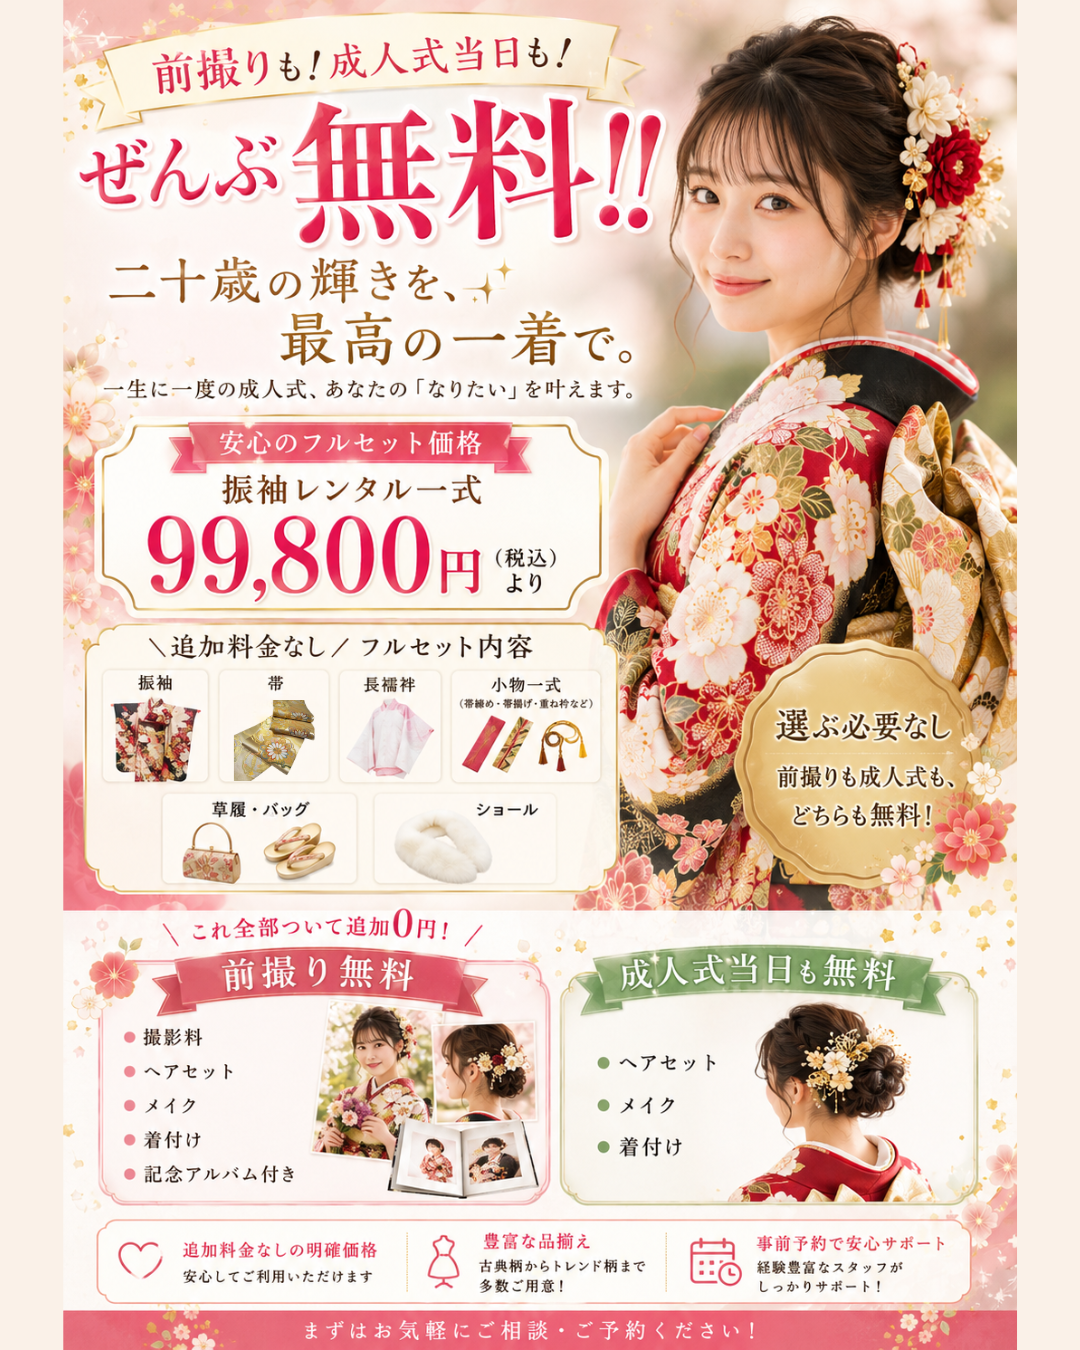
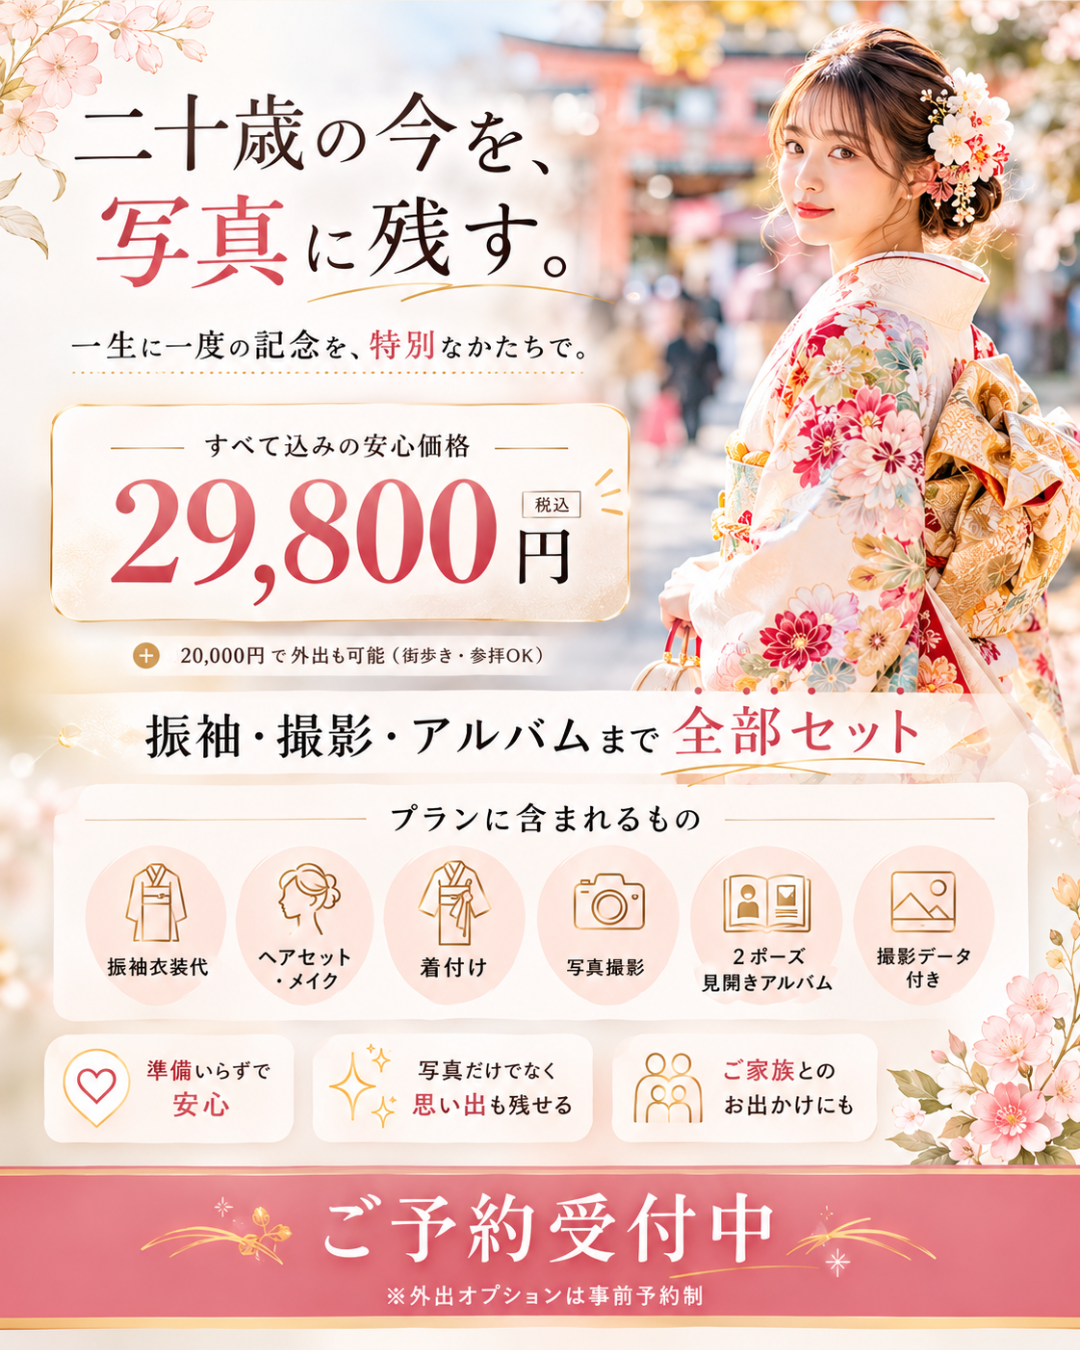
Sync Plan 3 price in alt text and confirm image mapping

diff --git a/pages/campaign-furisode-plans-2026.html b/pages/campaign-furisode-plans-2026.html
@@ -383,7 +383,7 @@
          プラン3: フルセット
          ============================================ -->
     <div class="image-lp-container" style="padding-top: 0;">
-        <img src="../images/furisode_3.png" alt="前撮りも当日もぜんぶ無料！振袖レンタル一式 148,000円〜" loading="lazy">
+        <img src="../images/furisode_p3.png" alt="前撮りも当日もぜんぶ無料！振袖レンタル一式 99,800円〜" loading="lazy">
     </div>
 
     <section class="plan-detail">
